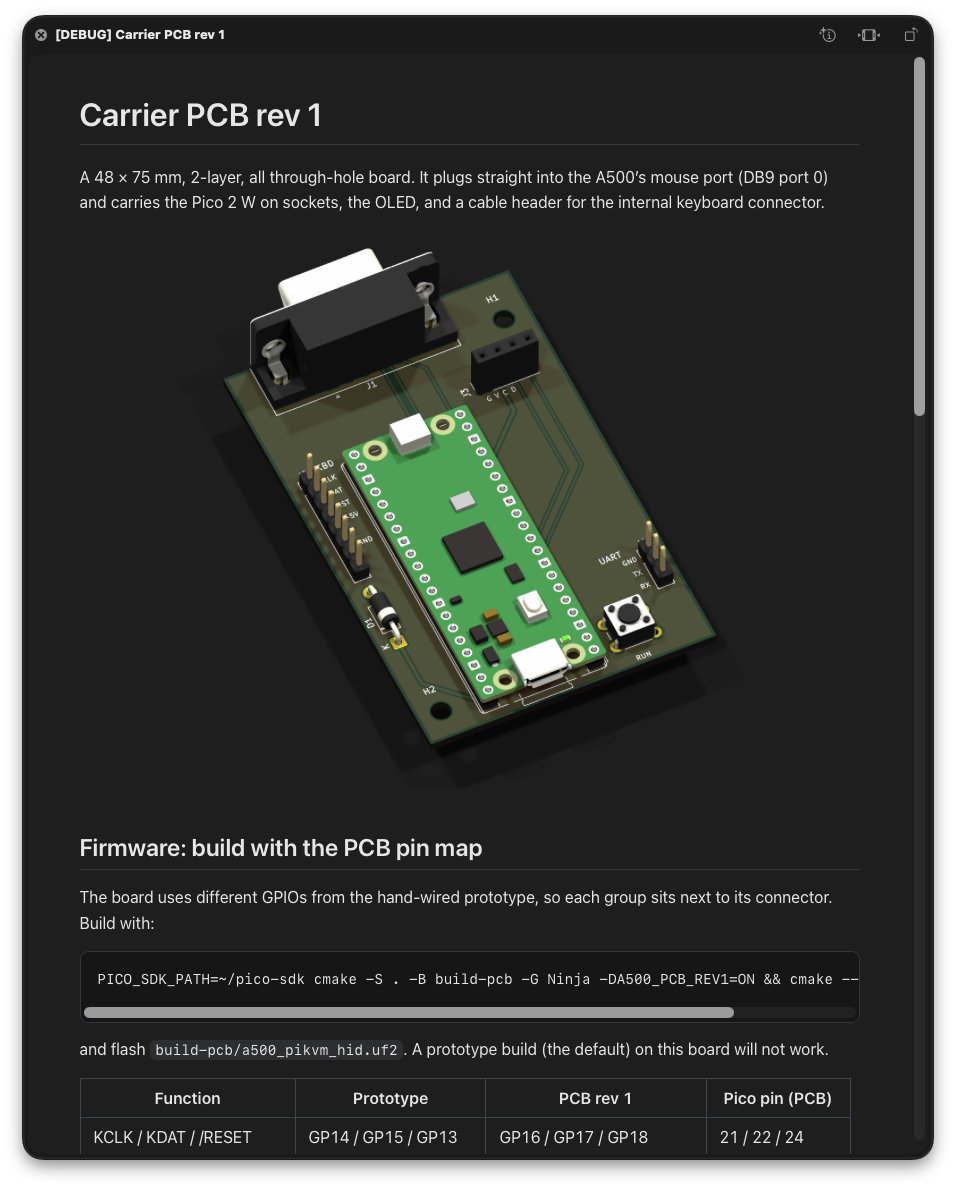
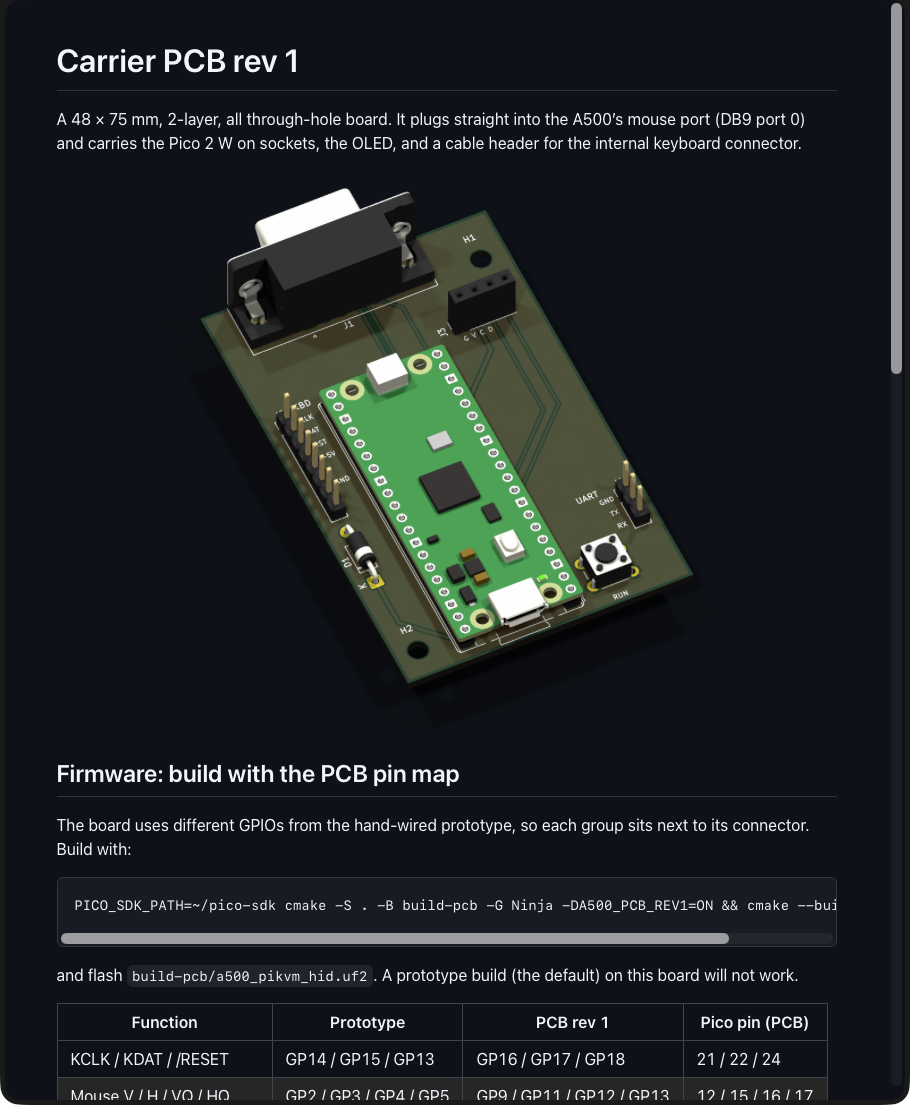
README screenshots in the GitHub style

Changed region(s): [[0.0, 0.0, 1.0, 1.0]]

diff --git a/README.md b/README.md
@@ -2,7 +2,7 @@
 
 A small, fast Markdown viewer for macOS, written in Swift, with a Quick Look extension.
 
-| The app: tabs, Files sidebar, images, code, tables | Quick Look (Space in Finder) |
+| The app (GitHub style, dark): tabs, Files sidebar, images, code | Quick Look (Space in Finder) |
 |---|---|
 | ![Marky showing a project's README files in three tabs](docs/screenshots/app-tabs.png) | ![Quick Look preview of the same file](docs/screenshots/quicklook.png) |
 
